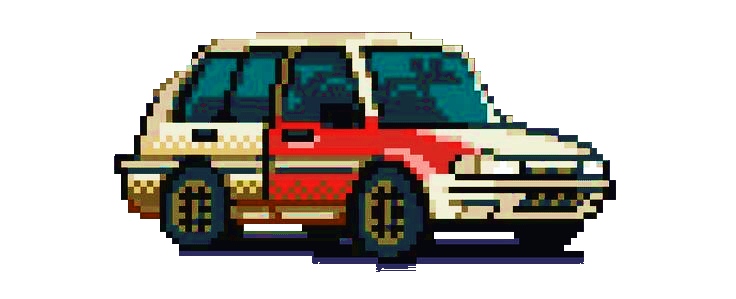
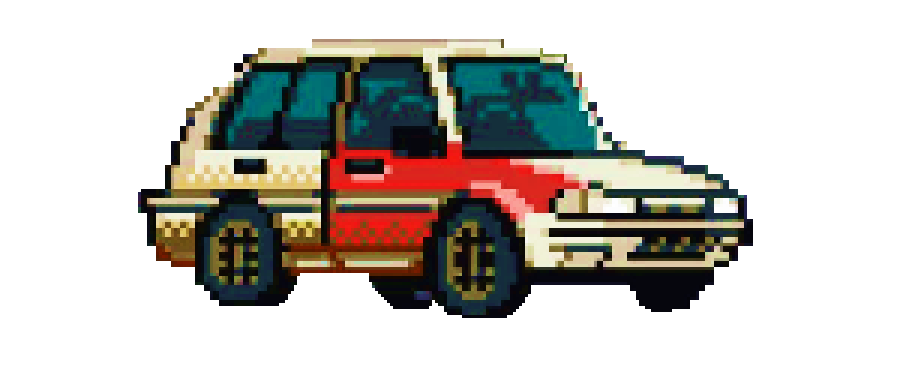
Ai

Changed region(s): [[0.1562, 0.0903, 0.8438, 0.9331]]

diff --git a/ArquivoHistoria.py b/ArquivoHistoria.py
@@ -6,6 +6,8 @@ from ArquivoPersonagens import *
 
 def fadeIn(screen,display, background): # Efeito fedeIn
     for i in range(0,20):
+        if pygame.key.get_pressed()[K_SPACE]:
+                flag = False
         screen.blit(background, (0,0))
         pygame.display.update()
         pygame.time.wait(100)
@@ -61,6 +63,8 @@ def intro(jog, screen, display): # Função Geraaaal
         
         # Efeito FadeIn e FadeOut para o texto inicial
         while azul <= 3:
+            if pygame.key.get_pressed()[K_SPACE]:
+                flag = False
             screen.blit(azul_fraco, (215,250))
             pygame.display.update()
             pygame.time.wait(300)
@@ -68,6 +72,8 @@ def intro(jog, screen, display): # Função Geraaaal
             azul += 1
             
         while azul <= 6:
+            if pygame.key.get_pressed()[K_SPACE]:
+                flag = False
             screen.blit(azul_medio, (215,250))
             pygame.display.update()
             pygame.time.wait(300)
@@ -75,6 +81,8 @@ def intro(jog, screen, display): # Função Geraaaal
             azul += 1
             
         while azul <= 9:
+            if pygame.key.get_pressed()[K_SPACE]:
+                flag = False
             screen.blit(azul_forte, (215,250))
             pygame.display.update()
             pygame.time.wait(1000)
@@ -83,6 +91,8 @@ def intro(jog, screen, display): # Função Geraaaal
 
         screen.fill((0,0,0))
         while azul <= 12:
+            if pygame.key.get_pressed()[K_SPACE]:
+                flag = False
             screen.blit(azul_medio, (215,250))
             pygame.display.update()
             
@@ -91,6 +101,8 @@ def intro(jog, screen, display): # Função Geraaaal
         pygame.time.wait(200)
         screen.fill((0,0,0))
         while azul <= 15:
+            if pygame.key.get_pressed()[K_SPACE]:
+                flag = False
             screen.blit(azul_fraco, (215,250))
             pygame.display.update()
             
@@ -99,6 +111,8 @@ def intro(jog, screen, display): # Função Geraaaal
         pygame.time.wait(300)
         screen.fill((0,0,0))
         while azul == 16:
+            if pygame.key.get_pressed()[K_SPACE]:
+                flag = False
             screen.blit(azul_fraco, (215,250))
             pygame.display.update()
 
@@ -107,6 +121,8 @@ def intro(jog, screen, display): # Função Geraaaal
         pygame.time.wait(400)
         screen.fill((0,0,0))
         while azul <= 19:
+            if pygame.key.get_pressed()[K_SPACE]:
+                flag = False
             screen.blit(azul_superfraco, (215,250))
             pygame.display.update()
 

diff --git a/ArquivoViela.py b/ArquivoViela.py
@@ -16,6 +16,8 @@ def viela(jog, screen, display):
     carro = pygame.image.load("carcomplex2.png")
     carro = pygame.transform.scale(carro, (400,150))
 
+    carro_mov = pygame.image.load("carcomplex2_2.png")
+    carro_mov = pygame.transform.scale(carro_mov, (400,150))
 
 	# Personagens
     if jog.comp:
@@ -58,7 +60,7 @@ def viela(jog, screen, display):
     flag = True
     Loop1 = True
     acabou = False
-    
+    mov = 0
     
     
     while Loop1:
@@ -133,13 +135,24 @@ def viela(jog, screen, display):
                       screen.blit(personagem_head, personagem_position)
 
 			# Plota o carro
-                  screen.blit(carro,carro_position)
+                  if carro_position[0] > 500:
+                    
+                    if mov < 10:
+                        screen.blit(carro_mov,carro_position)
+                    if mov >= 10:
+                        screen.blit(carro,carro_position)
+                        if mov == 20:
+                            mov = 0
+                  else:
+                      screen.blit(carro,carro_position)
 			# Se o personagem "está" no carro, o carro se movimenta
                   if espera >= 40:
                       if carro_position[1] == 400:
                           speedy_car -= 2
                       if carro_position[1] == 398:
                           speedy_car += 2
+                      
+                      mov += 1
 
 				# Velocidade do carro 
                       carro_position[1] += speedy_car
@@ -159,4 +172,6 @@ def viela(jog, screen, display):
 	
             pygame.display.update()
             clock.tick(30)
+        
+
 

diff --git a/ArquivoJogador.py b/ArquivoJogador.py
@@ -36,7 +36,7 @@ class Jogador:
 		self.temporestante = 100    # Tempo restante
 		self.tempodeviagem = 3    # Tempo de viagem, não conta o tempo gasto em cidade ou camp, apenas na tela go
 		self.numero_personagens = 3
-		self.distancia = 300
+		self.distancia = 3000
 		self.velocidade = 100
 
 

diff --git a/Jogo.py b/Jogo.py
@@ -11,7 +11,7 @@ from ArquivoHistoria import *
 
 
 mixer.init()
-jog = Jogador()
+jog = Jogador()                                       
 
 # 3000 km  5 cidades 5 camps
 
